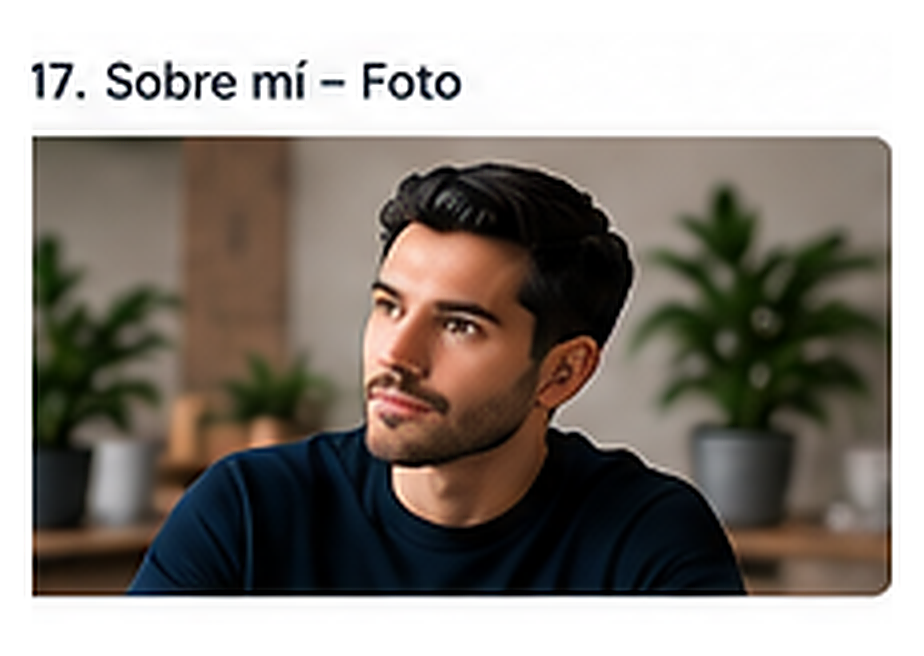
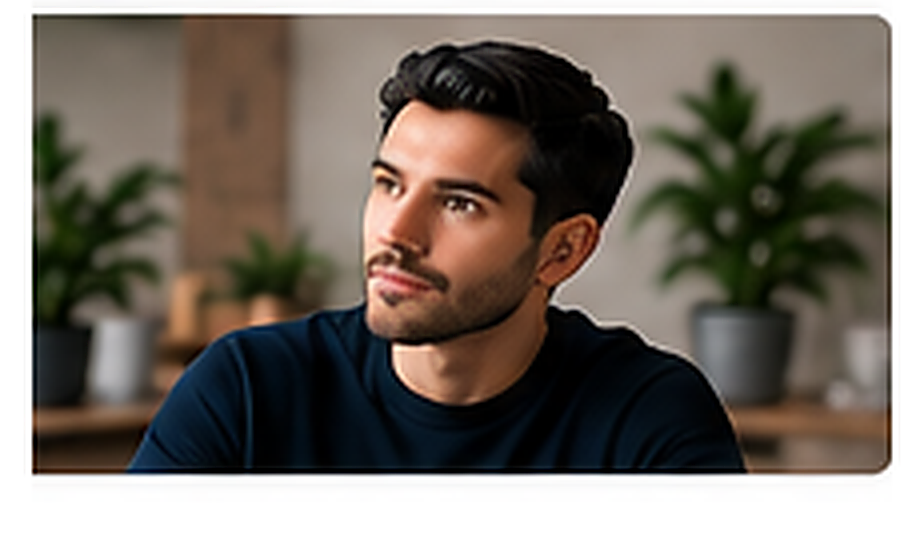
Corrige overlaps en movil y recorta rotulos de diseno filtrados en 6 imagenes
Auditoria en viewport 375px encontro dos bugs reales de layout, ambos por
reglas de altura fija heredadas de versiones anteriores (V21/V22) nunca
limpiadas del CSS:
- El journey-map del hero se superponia con la tarjeta "journey-business"
  porque .hero-stage/.journey-map tenian altura fija insuficiente para el
  grid de 2 columnas en movil.
- En casos reales, el telefono mockup se dibujaba encima del boton
  "Ver caso" porque .device-main/.device-back no respetaban el limite
  superior de .case-visual en pantallas angostas.

Ademas, 6 imagenes (los 3 casos, la foto de perfil, el prototipo de
diagnostico y el dashboard de sistemas internos) traian pegado un rotulo
de la herramienta de diseno ("11. Casos - Hojaldito", "17. Sobre mi -
Foto", etc.) visible tanto en escritorio como en movil. Se recortaron
manteniendo el encuadre real del contenido.

diff --git a/assets/css/home.css b/assets/css/home.css
@@ -1168,3 +1168,25 @@ body,.site-shell{background:#fff}
   .case-showcase:before{width:100%;height:55%;right:-15%;top:20%}
   .case-showcase .case-tab{border-bottom-color:#2c2d2f}
 }
+
+/* ============================================================
+   FIX MÓVIL — overlaps heredados de reglas de altura fija de
+   versiones anteriores (V21/V22 en el hero; case-showcase en
+   casos reales). Solo toca el breakpoint móvil, sin afectar
+   desktop/tablet.
+   ============================================================ */
+@media(max-width:700px){
+  /* El hero-stage tenía altura fija heredada de una version anterior
+     que no alcanzaba para el journey-map en 2 columnas + la tarjeta
+     "journey-business", causando que se superpusieran. */
+  .hero-stage{height:auto!important;min-height:0!important}
+  .journey-map{height:auto!important;min-height:0!important;padding-bottom:14px!important}
+  .journey-business{position:static!important;left:auto!important;right:auto!important;bottom:auto!important;top:auto!important;margin-top:14px!important;width:100%!important}
+}
+@media(max-width:640px){
+  /* El telefono mockup de case-showcase se dibuja por encima del
+     boton "Ver caso" porque su posicion absoluta no respeta el
+     limite superior de .case-visual en pantallas angostas. */
+  .case-visual{margin-top:26px!important}
+  .device-main,.device-back{top:8%!important}
+}
